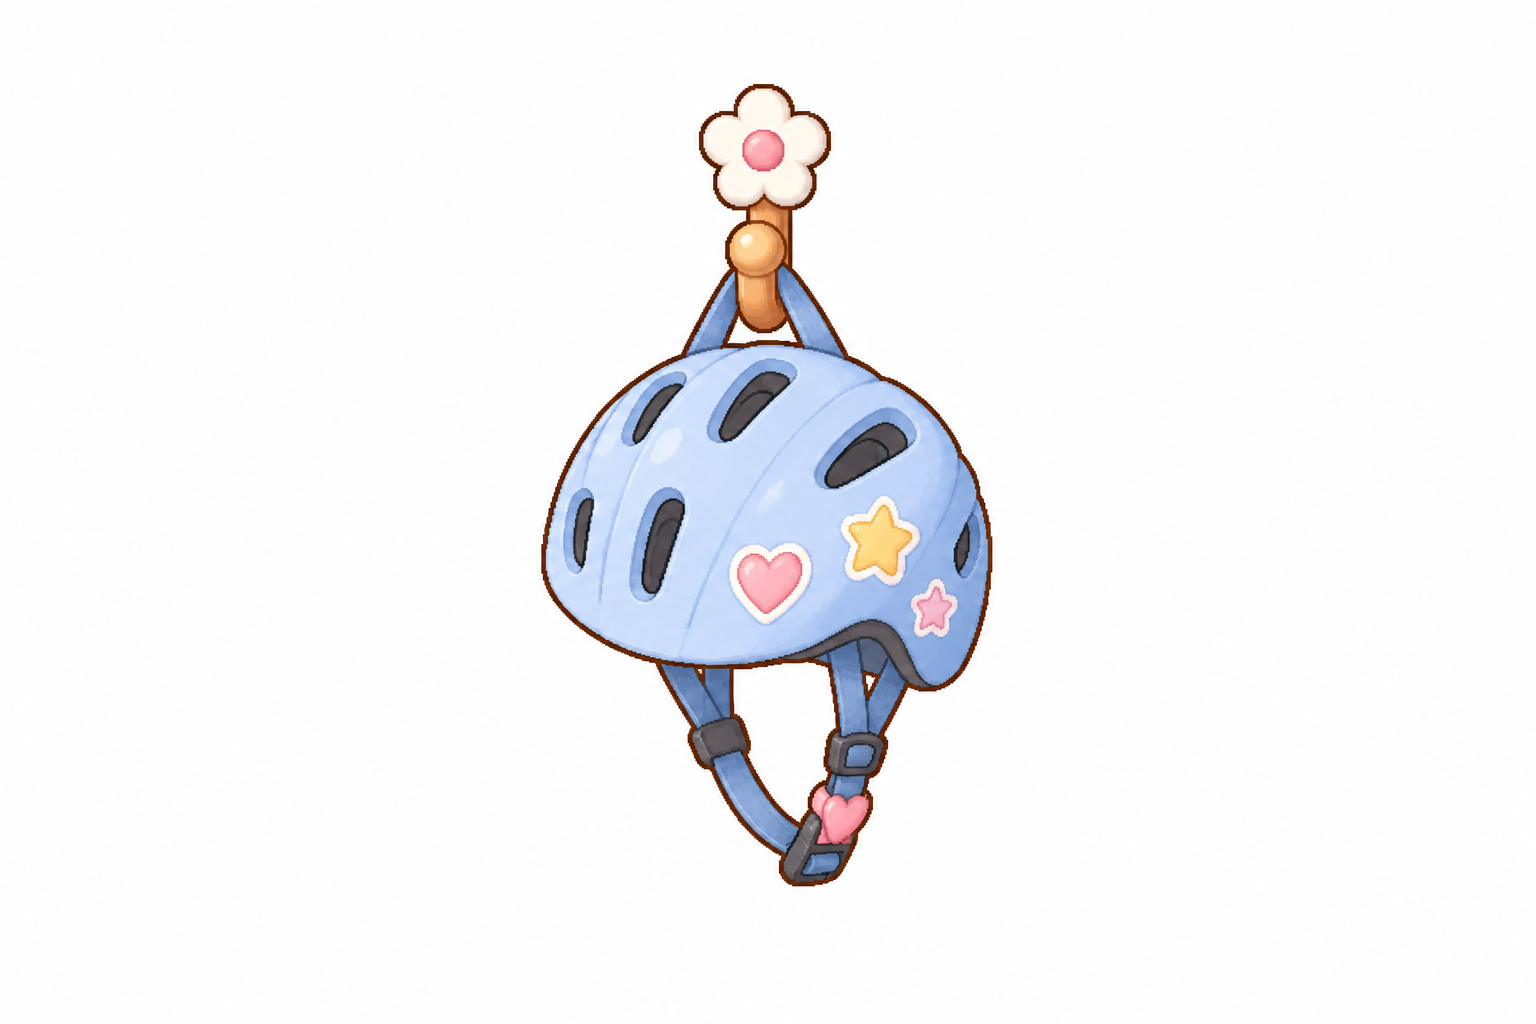
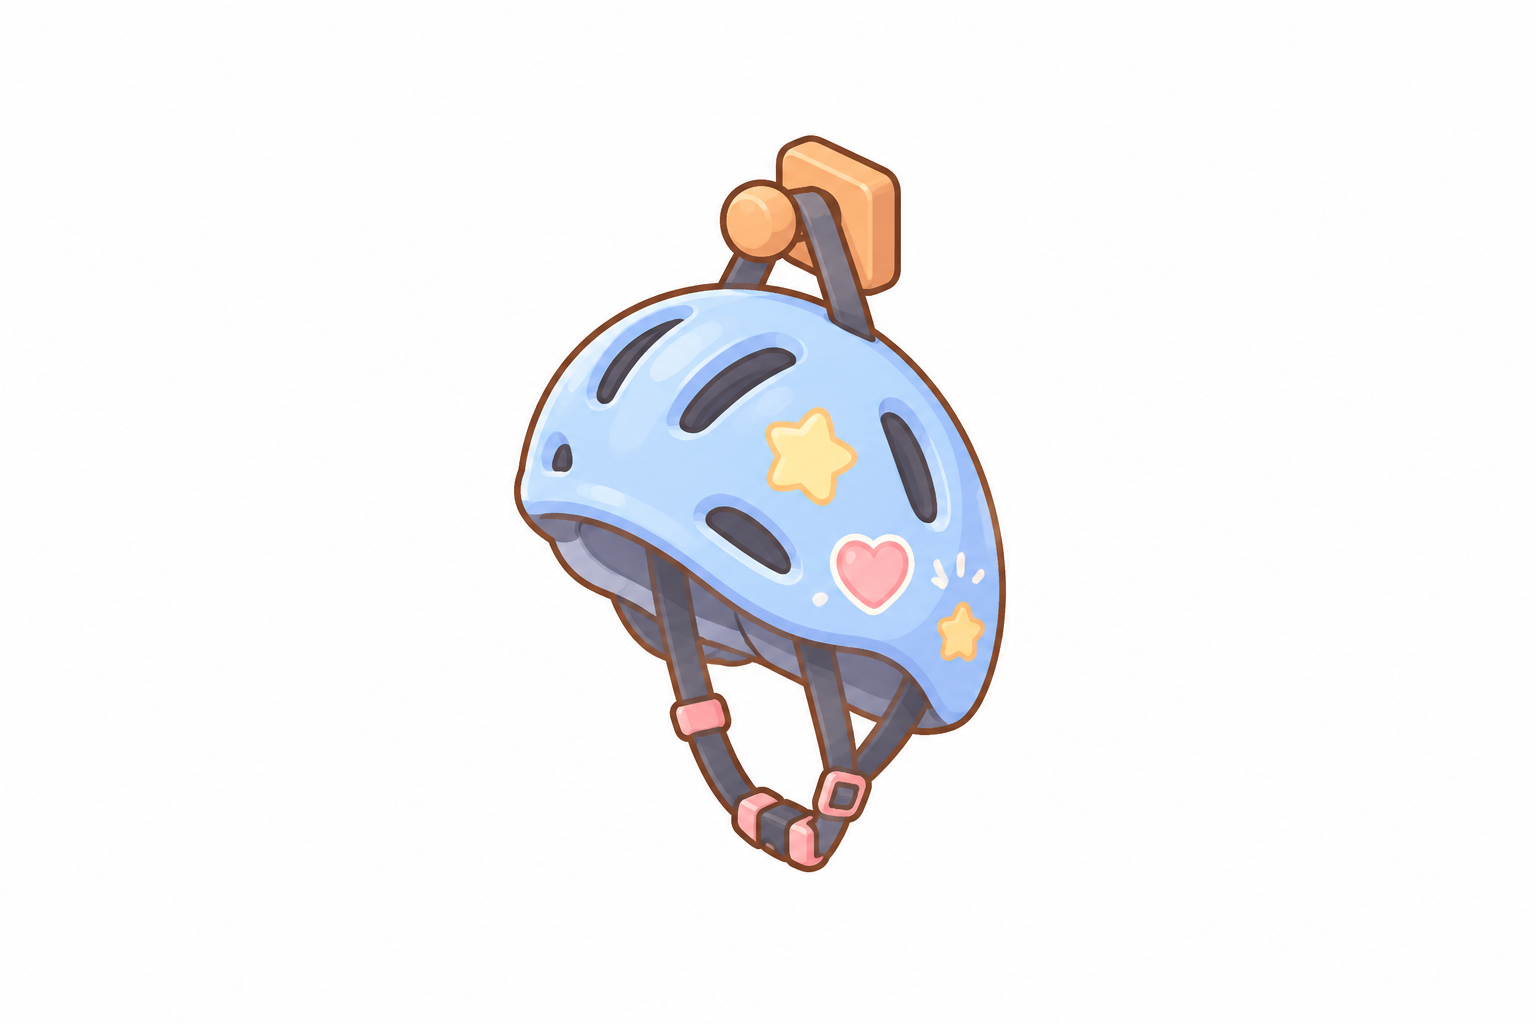
Room items: towel and bike helmet drawn hanging on the door
Both are redrawn already following the door's angle, so the program no
longer slants them. The earlier front-view art is kept as bath_front.png
and bike_front.png.

Claude-Session: https://claude.ai/code/session_01MT4YkmG2KGTMjF5XqnwBbs

Changed region(s): [[0.3125, 0.0625, 0.6562, 0.875]]

diff --git a/public/joys-config.js b/public/joys-config.js
@@ -36,8 +36,8 @@ export const IMPRINTS = {
   shop: { name: '購物紙袋', where: '門旁邊', x: 1268, y: 688, w: 88, h: 105, r: .035, z: 4 },
   clean: { name: '小掃把和畚箕', where: '門旁邊', x: 1268, y: 684, w: 100, h: 118, r: .035, z: 4 },
   letter: { name: '門縫塞進來的信', where: '門前', x: 1335, y: 714, w: 58, h: 40, z: 2 },
-  bath: { name: '浴巾和小黃鴨', where: '門上的掛鉤', x: 1368, y: 575, w: 56, h: 126, z: 2 },
-  bike: { name: '腳踏車安全帽', where: '門上的掛鉤', x: 1368, y: 565, w: 62, h: 115, z: 2 },
+  bath: { name: '浴巾和小黃鴨', where: '門上的掛鉤', x: 1368, y: 560, w: 54, h: 102, z: 2 },
+  bike: { name: '腳踏車安全帽', where: '門上的掛鉤', x: 1368, y: 556, w: 66, h: 99, z: 2 },
 };
 
 // 擺放位置（多選一，使用者定案）：同一個位置一次只放一件；換上新的，原本那件自動收起來，隨時可以換回來

diff --git a/public/sw.js b/public/sw.js
@@ -1,5 +1,5 @@
 // 版本號：主.次.修（見 CLAUDE.md「版本號」）。改了任何檔案就把最後一位 +1，舊快取才會被清掉
-const VERSION = '0.0.101';
+const VERSION = '0.0.102';
 const CACHE = `lifelog-${VERSION}`;
 const ASSETS = [
   './',

diff --git a/art/tools/imprint_items.py b/art/tools/imprint_items.py
@@ -23,11 +23,11 @@ WIDTH = {'cat': 130, 'coffee': 54, 'meal': 170, 'gift': 105, 'bear': 95, 'hearts
          'paw': 120, 'moon': 44, 'star': 200, 'sneaker': 62,
          'cake': 58, 'call': 84, 'camera': 52, 'home': 56, 'plant': 64, 'sparkle': 300, 'sunset': 96,
          'game': 110, 'workout': 100, 'book': 118,
-         'bike': 62, 'bath': 56, 'letter': 58, 'umbrella': 62, 'shop': 88, 'clean': 100, 'sun': 70, 'movie': 72,
+         'bike': 66, 'bath': 54, 'letter': 58, 'umbrella': 62, 'shop': 88, 'clean': 100, 'sun': 70, 'movie': 72,
          'sing': 58, 'music': 44, 'icecream': 200, 'cook': 170}
 # 掛在牆上的要照牆的斜度斜過去：每往右 1px 往下幾 px（GPT 畫的是正面，右牆約往下 0.49，原圖的線已經斜 0.19）
 # 負的是往右上升：左牆、窗簾桿（約 -0.49）
-SHEAR = {'star': 0.3, 'sparkle': -0.49, 'sunset': -0.49, 'bike': 0.49, 'bath': 0.49}
+SHEAR = {'star': 0.3, 'sparkle': -0.49, 'sunset': -0.49}
 # GPT 畫的角度差一點的，順時針轉幾度跟家具平行（電話要和電視櫃平行）
 ROTATE = {'call': 11}
 # 小東西的外框細一點（預設 3px）

diff --git a/CLAUDE.md b/CLAUDE.md
@@ -166,7 +166,7 @@
   - 擺放規劃（使用者定案）：**32 件家具都有圖了**，完整的 22 個位置見 `SLOT_OF`、座標見 `IMPRINTS`。**大小以熊熊為現實比例參考**（使用者定案：瑜珈墊比熊熊高、書和熊熊差不多高）。
     - 書桌左邊 coffee 拿鐵（只有杯子，和蛋糕一樣大）／cake；書桌上的紙條位置不變。角落層架長邊：home 全家福（左）、camera 拍立得（右，只有相機）；角落層架短邊：music 旋轉木馬音樂盒（使用者把唱片機換掉，舊圖 `music_turntable.png`）。窗台 plant、窗簾桿 sparkle 串燈、窗戶旁的牆 sunset 明信片（兩個 `SHEAR` -0.49：負的是往右上升）。
     - 床上 cat／game；書櫃頂 sneaker 地球儀、paw；書櫃旁 gift／workout；小熊旁 book；地毯中間 meal／cook（同一張小矮桌換成一鍋湯）；地毯左前方 hearts 兩雙室內拖鞋（放在地毯外面，不疊到地毯；取代愛心氣球，舊圖 `hearts_balloons.png`）；前方地板 icecream 懶骨頭。
-    - 電視櫃最左格目前空著；電視櫃上（電視右邊）call／sun／movie／sing（站在桌面中間；電話用 `imprint_items.py` 的 `ROTATE` 轉 11 度，和櫃子平行）；門邊地板 umbrella／shop（只有一個袋子，舊的兩袋 `shop_two_bags.png`）／clean；門前 letter；門上掛鉤 bath／bike（目前用 `SHEAR` 0.49 斜過去；使用者要請 GPT 直接畫斜掛在門上的版本，新圖來了就拿掉 `SHEAR`，不要再自己斜）。
+    - 電視櫃最左格目前空著；電視櫃上（電視右邊）call／sun／movie／sing（站在桌面中間；電話用 `imprint_items.py` 的 `ROTATE` 轉 11 度，和櫃子平行）；門邊地板 umbrella／shop（只有一個袋子，舊的兩袋 `shop_two_bags.png`）／clean；門前 letter；門上掛鉤 bath／bike（GPT 直接畫成斜掛在門上的角度，**不要再用 `SHEAR` 自己斜**，使用者定案；舊的正面圖 `bath_front.png`、`bike_front.png`）。
     - 舊模型圖留著備用：`camera_tripod.png`、`cloud_beanbag.png`、`coffee_pot.png`、`hearts_balloons.png`、`shoes.png`、`music_turntable.png`、`shop_two_bags.png`。
   - 收藏冊在「累積幸福 → 全部」最下面，32 格（`JOY_ICONS` 全部）。
 - **使用者在小幸福選單（artifact）選了 32 個**：原本 24 個，加上 game 玩了喜歡的遊戲、cook 自己做了一頓飯、shop 買到喜歡的東西、workout 去運動了、movie 看了好看的電影、clean 把房間整理乾淨、call 和好久不見的人聊天、sing 大聲唱了歌。這 8 個已加進 `JOY_ICONS`（emoji）和 `ASK`，但**還沒有像素圖示**：不在 `JOY_PIX`，所以不能選來當小幸福或紙條貼圖（`PICKABLE_ICONS`），收藏冊顯示「即將推出」；圖做好放進 `public/joys/`、加進 `JOY_PIX` 和 `sw.js`，再加進 `SUGGESTIONS`。原本只有圖示的 6 個補了名稱，加進建議：被抱抱了 bear、照顧了植物 plant、完成了一件事 sparkle、雨天也很好 umbrella、吃到冰淇淋 icecream、騎車出去晃晃 bike。
